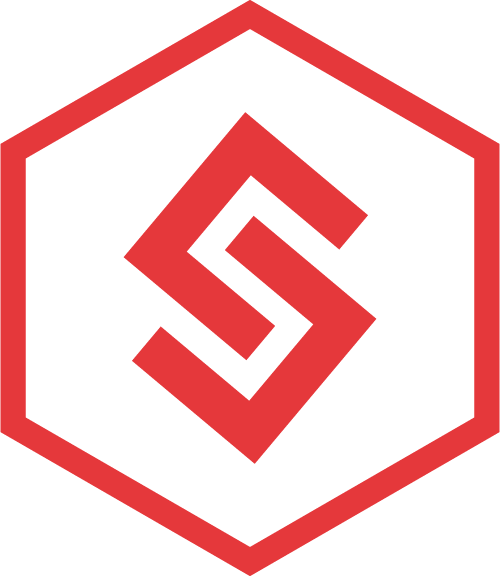
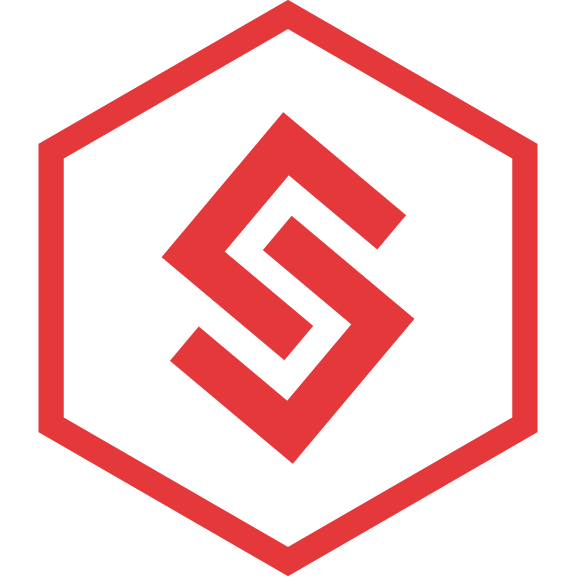
feat: image responsive

diff --git a/src/data/projects.js b/src/data/projects.js
@@ -3,7 +3,7 @@ export default [
     id: '1',
     overline: 'Desktop',
     title: 'Kenko',
-    image: 'kenko.png',
+    image: 'kenko',
     links: {
       github: 'https://github.com/saamodra/KenkoApp',
     },
@@ -14,7 +14,7 @@ export default [
     id: '2',
     overline: 'Desktop',
     title: 'Overskill',
-    image: 'overskill.png',
+    image: 'overskill',
     links: {
       github: 'https://github.com/saamodra/Overskill',
     },
@@ -25,7 +25,7 @@ export default [
     id: '3',
     overline: 'Web',
     title: 'BUSS',
-    image: 'buss.png',
+    image: 'buss',
     links: {
       github: 'https://github.com/saamodra/BUSS',
     },
@@ -36,7 +36,7 @@ export default [
     id: '4',
     overline: 'Web',
     title: 'Sekolah Anak Bangsa',
-    image: 'sab.png',
+    image: 'sab',
     links: {
       github: 'https://github.com/alvinamartya/sekolahanakbangsa',
     },
@@ -47,7 +47,7 @@ export default [
     id: '5',
     overline: 'Web',
     title: 'Adagawe',
-    image: 'adagawe.png',
+    image: 'adagawe',
     links: {
       github: 'https://github.com/saamodra/adagawe',
     },
@@ -58,7 +58,7 @@ export default [
     id: '6',
     overline: 'Android',
     title: 'Doize',
-    image: 'doize.png',
+    image: 'doize',
     links: {
       github: 'https://github.com/saamodra/Doize',
     },

diff --git a/src/components/Navbar/Navbar.scss b/src/components/Navbar/Navbar.scss
@@ -36,11 +36,12 @@
         background-color: transparent;
         border: none;
         cursor: pointer;
+        padding: 10px 25px;
     }
 
     .nav-logo {
-        max-height: 60px;
-        padding: 10px 25px;
+        height: 30px;
+        width: 30px;
     }
 
     .menu-icon button {
@@ -200,9 +201,11 @@ input:checked + .slider:before {
         height: 70px;
 
         .nav-logo {
-            max-height: 70px;
+            display: flex;
+            align-items: center;
+            height: 40px;
             width: auto;
-            padding: 15px 30px;
+            padding: 0 30px;
         }
 
         .nav-items {
@@ -221,9 +224,6 @@ input:checked + .slider:before {
 
 @media screen and (min-width: 900px) {
     .navbar {
-        .nav-logo {
-            padding: 15px 40px;
-        }
 
         .nav-items {
             margin-right: 40px;
@@ -237,9 +237,6 @@ input:checked + .slider:before {
 
 @media screen and (min-width: 1200px) {
     .navbar {
-        .nav-logo {
-            padding: 20px 50px;
-        }
 
         .nav-items {
             margin-right: 50px;

diff --git a/src/components/Navbar/Navbar.css b/src/components/Navbar/Navbar.css
@@ -26,11 +26,12 @@
   background-color: transparent;
   border: none;
   cursor: pointer;
+  padding: 10px 25px;
 }
 
 .navbar .nav-logo {
-  max-height: 60px;
-  padding: 10px 25px;
+  height: 30px;
+  width: 30px;
 }
 
 .navbar .menu-icon button {
@@ -233,9 +234,15 @@ input:checked + .slider:before {
     height: 70px;
   }
   .navbar .nav-logo {
-    max-height: 70px;
+    display: -webkit-box;
+    display: -ms-flexbox;
+    display: flex;
+    -webkit-box-align: center;
+        -ms-flex-align: center;
+            align-items: center;
+    height: 40px;
     width: auto;
-    padding: 15px 30px;
+    padding: 0 30px;
   }
   .navbar .nav-items {
     display: -webkit-box;
@@ -251,9 +258,6 @@ input:checked + .slider:before {
 }
 
 @media screen and (min-width: 900px) {
-  .navbar .nav-logo {
-    padding: 15px 40px;
-  }
   .navbar .nav-items {
     margin-right: 40px;
   }
@@ -263,9 +267,6 @@ input:checked + .slider:before {
 }
 
 @media screen and (min-width: 1200px) {
-  .navbar .nav-logo {
-    padding: 20px 50px;
-  }
   .navbar .nav-items {
     margin-right: 50px;
   }

diff --git a/src/styles/_fonts.scss b/src/styles/_fonts.scss
@@ -3,20 +3,18 @@
     font-style: normal;
     font-weight: normal;
     src: local('SF Pro Display'), url('fonts/sf-pro/SF-Pro-Display-Regular.otf') format('woff');
+    font-display: swap;
 }
 @font-face {
     font-family: 'SF Pro Bold';
     font-style: normal;
     font-weight: bold;
     src: local('SF Pro Display Bold'), url('fonts/sf-pro/SF-Pro-Display-Bold.otf') format('woff');
+    font-display: swap;
 }
 @font-face {
     font-family: 'SF Mono';
     font-weight: normal;
     src: local('SF Mono'), url('fonts/sf-mono/SFMono-Regular.otf') format('woff');
+    font-display: swap;
 }
-// @font-face {
-//     font-family: 'SF Mono Bold';
-//     font-weight: bold;
-//     src: local('SF Mono'), url('fonts/sf-mono/SFMono-Bold.otf') format('woff');
-// }

diff --git a/src/App.css b/src/App.css
@@ -3,6 +3,7 @@
   font-style: normal;
   font-weight: normal;
   src: local("SF Pro Display"), url("fonts/sf-pro/SF-Pro-Display-Regular.otf") format("woff");
+  font-display: swap;
 }
 
 @font-face {
@@ -10,12 +11,14 @@
   font-style: normal;
   font-weight: bold;
   src: local("SF Pro Display Bold"), url("fonts/sf-pro/SF-Pro-Display-Bold.otf") format("woff");
+  font-display: swap;
 }
 
 @font-face {
   font-family: 'SF Mono';
   font-weight: normal;
   src: local("SF Mono"), url("fonts/sf-mono/SFMono-Regular.otf") format("woff");
+  font-display: swap;
 }
 
 * {

diff --git a/src/data/educations.js b/src/data/educations.js
@@ -3,7 +3,7 @@ export default [
     id: '1',
     level: 'Diploma',
     school: 'Politeknik Astra',
-    image: 'polman.png',
+    image: 'polman-min.png',
     major: 'Informatics Management',
     duration: '2019 - 2021',
     description: [
@@ -16,7 +16,7 @@ export default [
     id: '2',
     level: 'High School',
     school: 'SMKN 1 Jenangan',
-    image: 'stmj.png',
+    image: 'stmj-min.png',
     major: 'Software Engineering',
     duration: '2016 - 2019',
     description: [

diff --git a/src/components/Project/Project.js b/src/components/Project/Project.js
@@ -39,7 +39,8 @@ function Project({ componentRef }) {
             </div>
             <div className="project-image">
               <picture>
-                <img src={`/projects/${data.image}`} alt={data.title} />
+                <source media="(min-width:1024px)" srcSet={`/projects/${data.image}-large.jpg`} />
+                <img src={`/projects/${data.image}-small.jpg`} alt={data.title} loading="lazy" />
               </picture>
             </div>
           </div>

diff --git a/src/components/Navbar/Navbar.js b/src/components/Navbar/Navbar.js
@@ -40,7 +40,7 @@ function Navbar({ refs }) {
     <>
       <nav className={`navbar ${scrolled ? 'box-shadow' : ''}`}>
         <button type="button" onClick={() => scrollToRef(refs.current[0])} className="nav-link" aria-label="Navbar Logo">
-          <img src="/wm-red-2.png" alt="Navbar Logo" className="nav-logo" />
+          <img src="/wm-red-2-min.png" alt="Navbar Logo" className="nav-logo" loading="lazy" />
         </button>
 
         <ul className="nav-items">

diff --git a/src/components/About/About.js b/src/components/About/About.js
@@ -15,7 +15,10 @@ function About({ componentRef }) {
 
       <div className="section-about-content">
         <div className="section-image">
-          <img src="images/profile.jpg" alt="Profile" />
+          <picture>
+            <source media="(min-width:1024px)" srcSet="images/profile-large.jpg" />
+            <img src="images/profile-small.jpg" alt="Profile" />
+          </picture>
         </div>
         <div className="section-description">
           <p>

diff --git a/src/index.css b/src/index.css
@@ -1,8 +1,8 @@
 :root {
-  --sf-pro-regular: 'SF Pro Regular';
-  --sf-pro-bold: 'SF Pro Bold';
-  --sf-mono: 'SF Mono';
-  --sf-mono-bold: 'SF Mono Bold';
+  --sf-pro-regular: 'SF Pro Regular', 'Arial', sans-serif;
+  --sf-pro-bold: 'SF Pro Bold', 'Arial', sans-serif;
+  --sf-mono: 'SF Mono', 'Arial', sans-serif;
+  --sf-mono-bold: 'SF Mono Bold', 'Arial', sans-serif;
 }
 
 /* width */

diff --git a/src/components/About/About.scss b/src/components/About/About.scss
@@ -34,6 +34,7 @@
             border-radius: 5px;
             object-fit: cover;
             width: 100%;
+            height: 100%;
         }
 
         &::after {

diff --git a/src/components/About/About.css b/src/components/About/About.css
@@ -45,6 +45,7 @@
   -o-object-fit: cover;
      object-fit: cover;
   width: 100%;
+  height: 100%;
 }
 
 .section-about-content .section-image::after {
